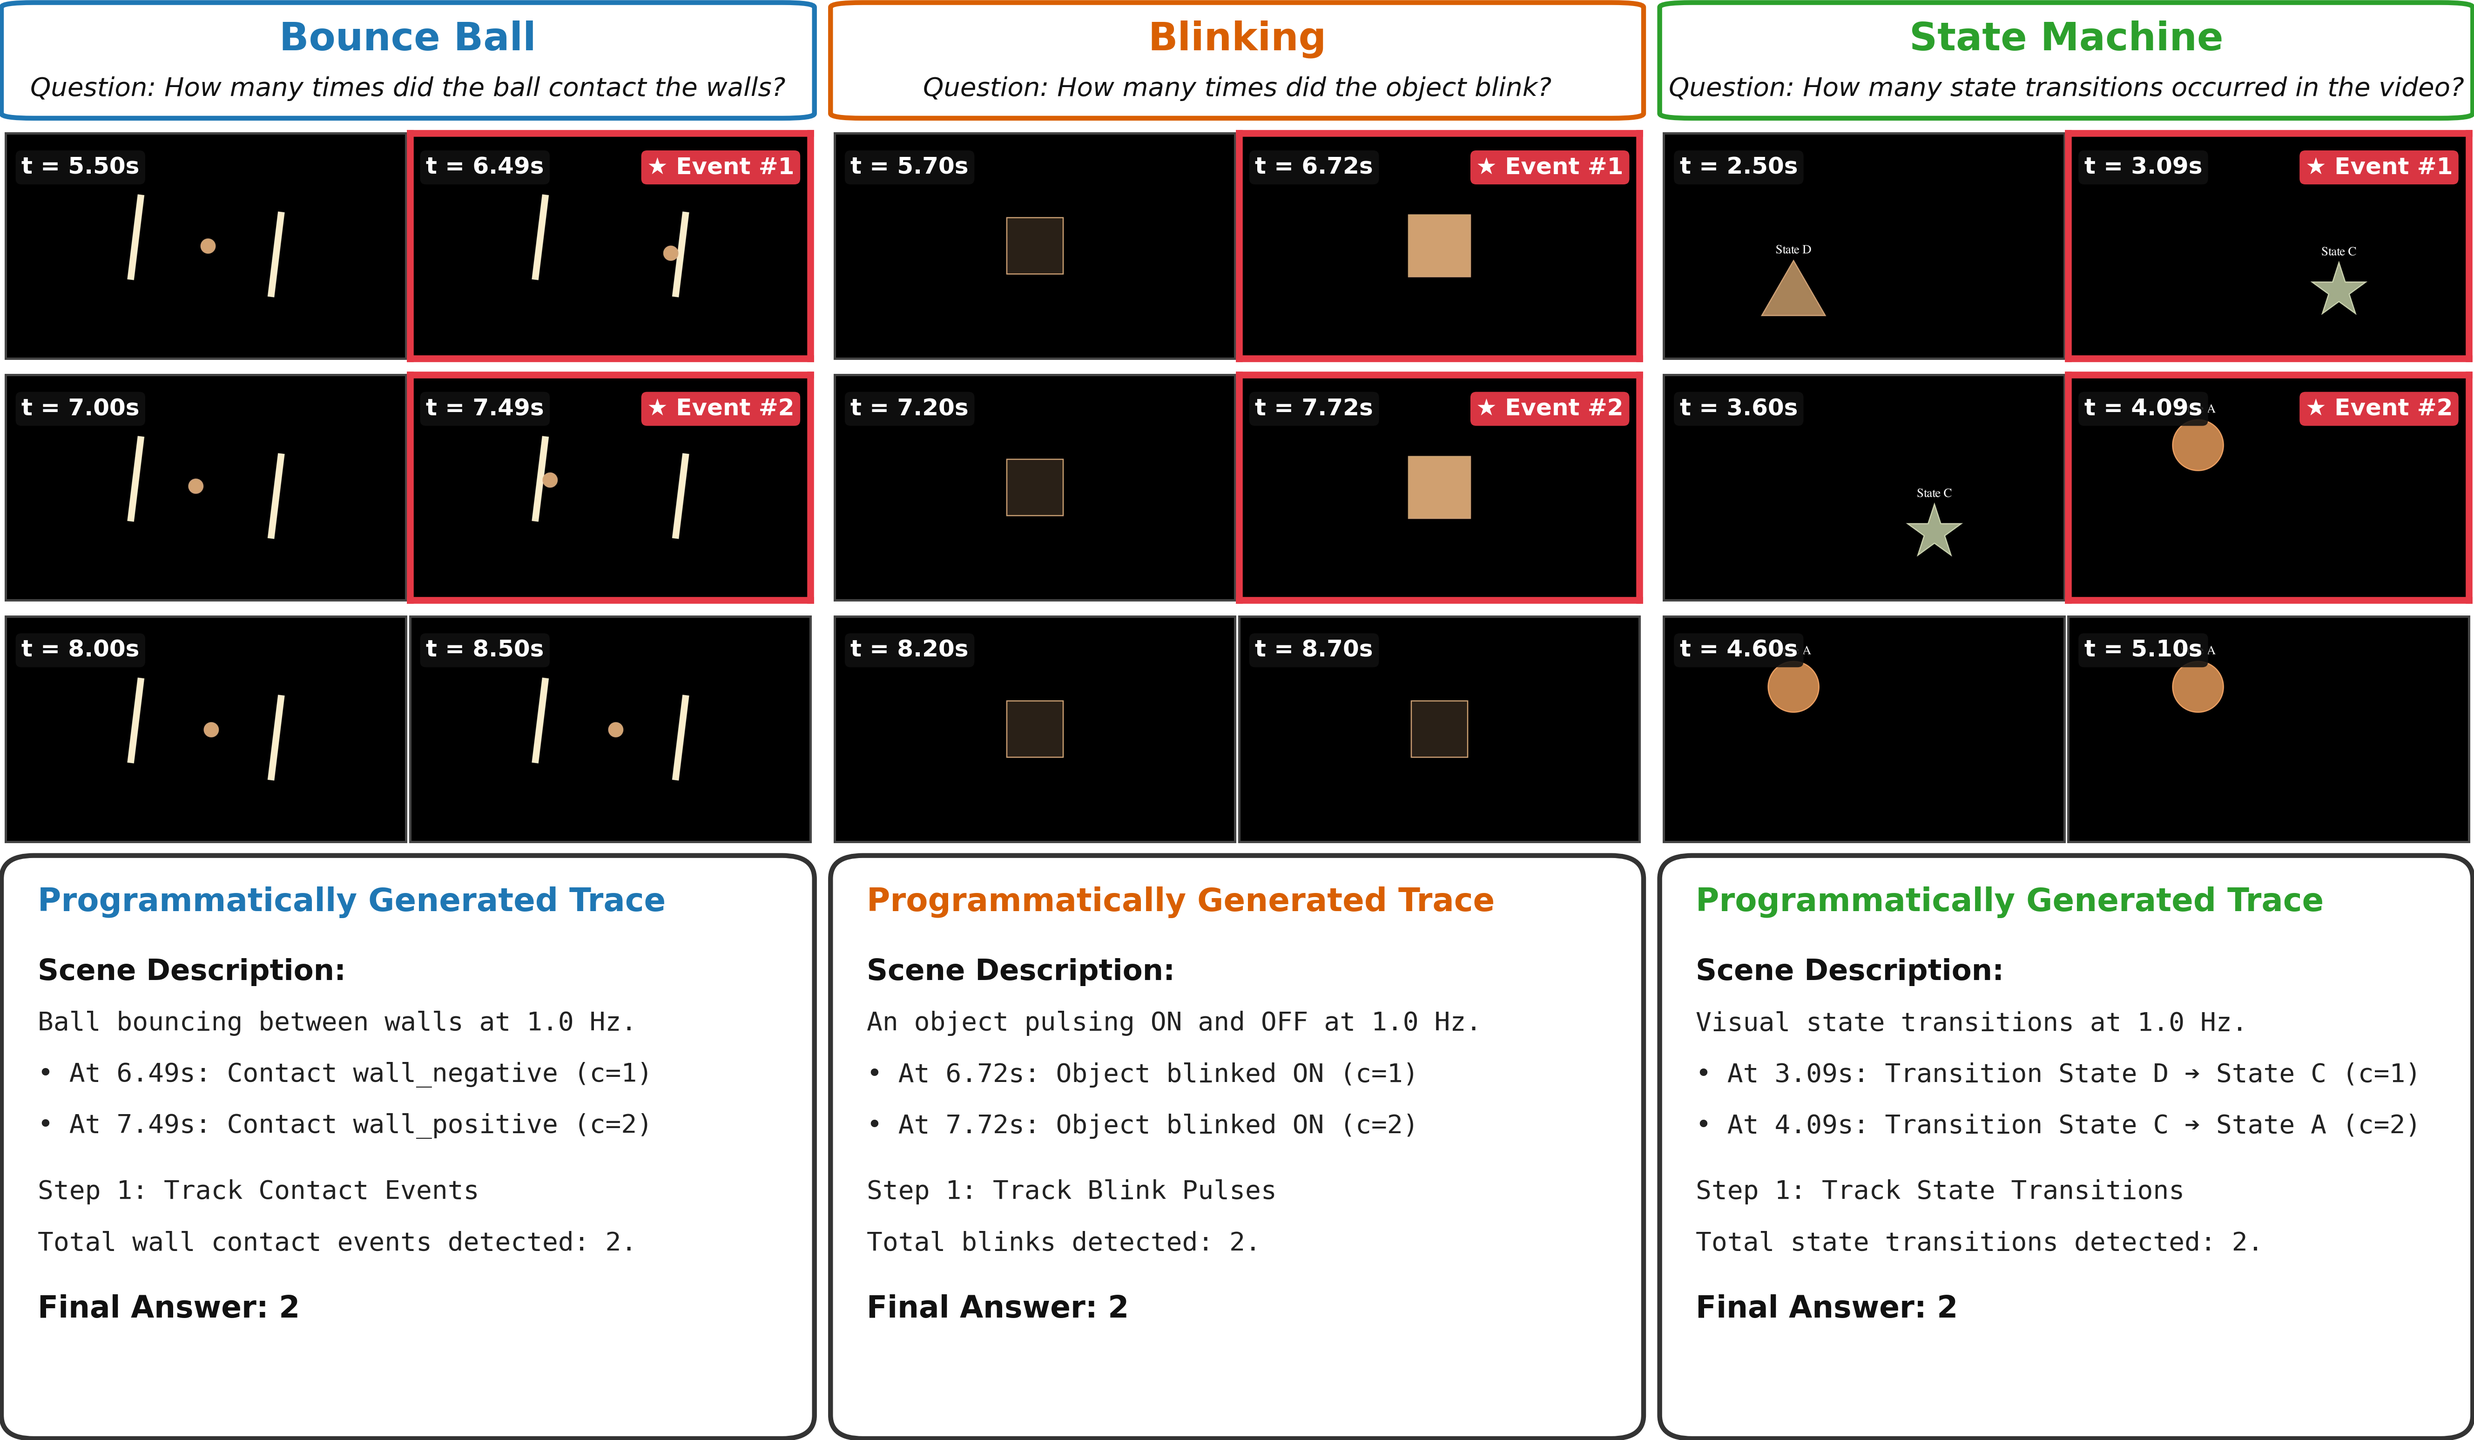
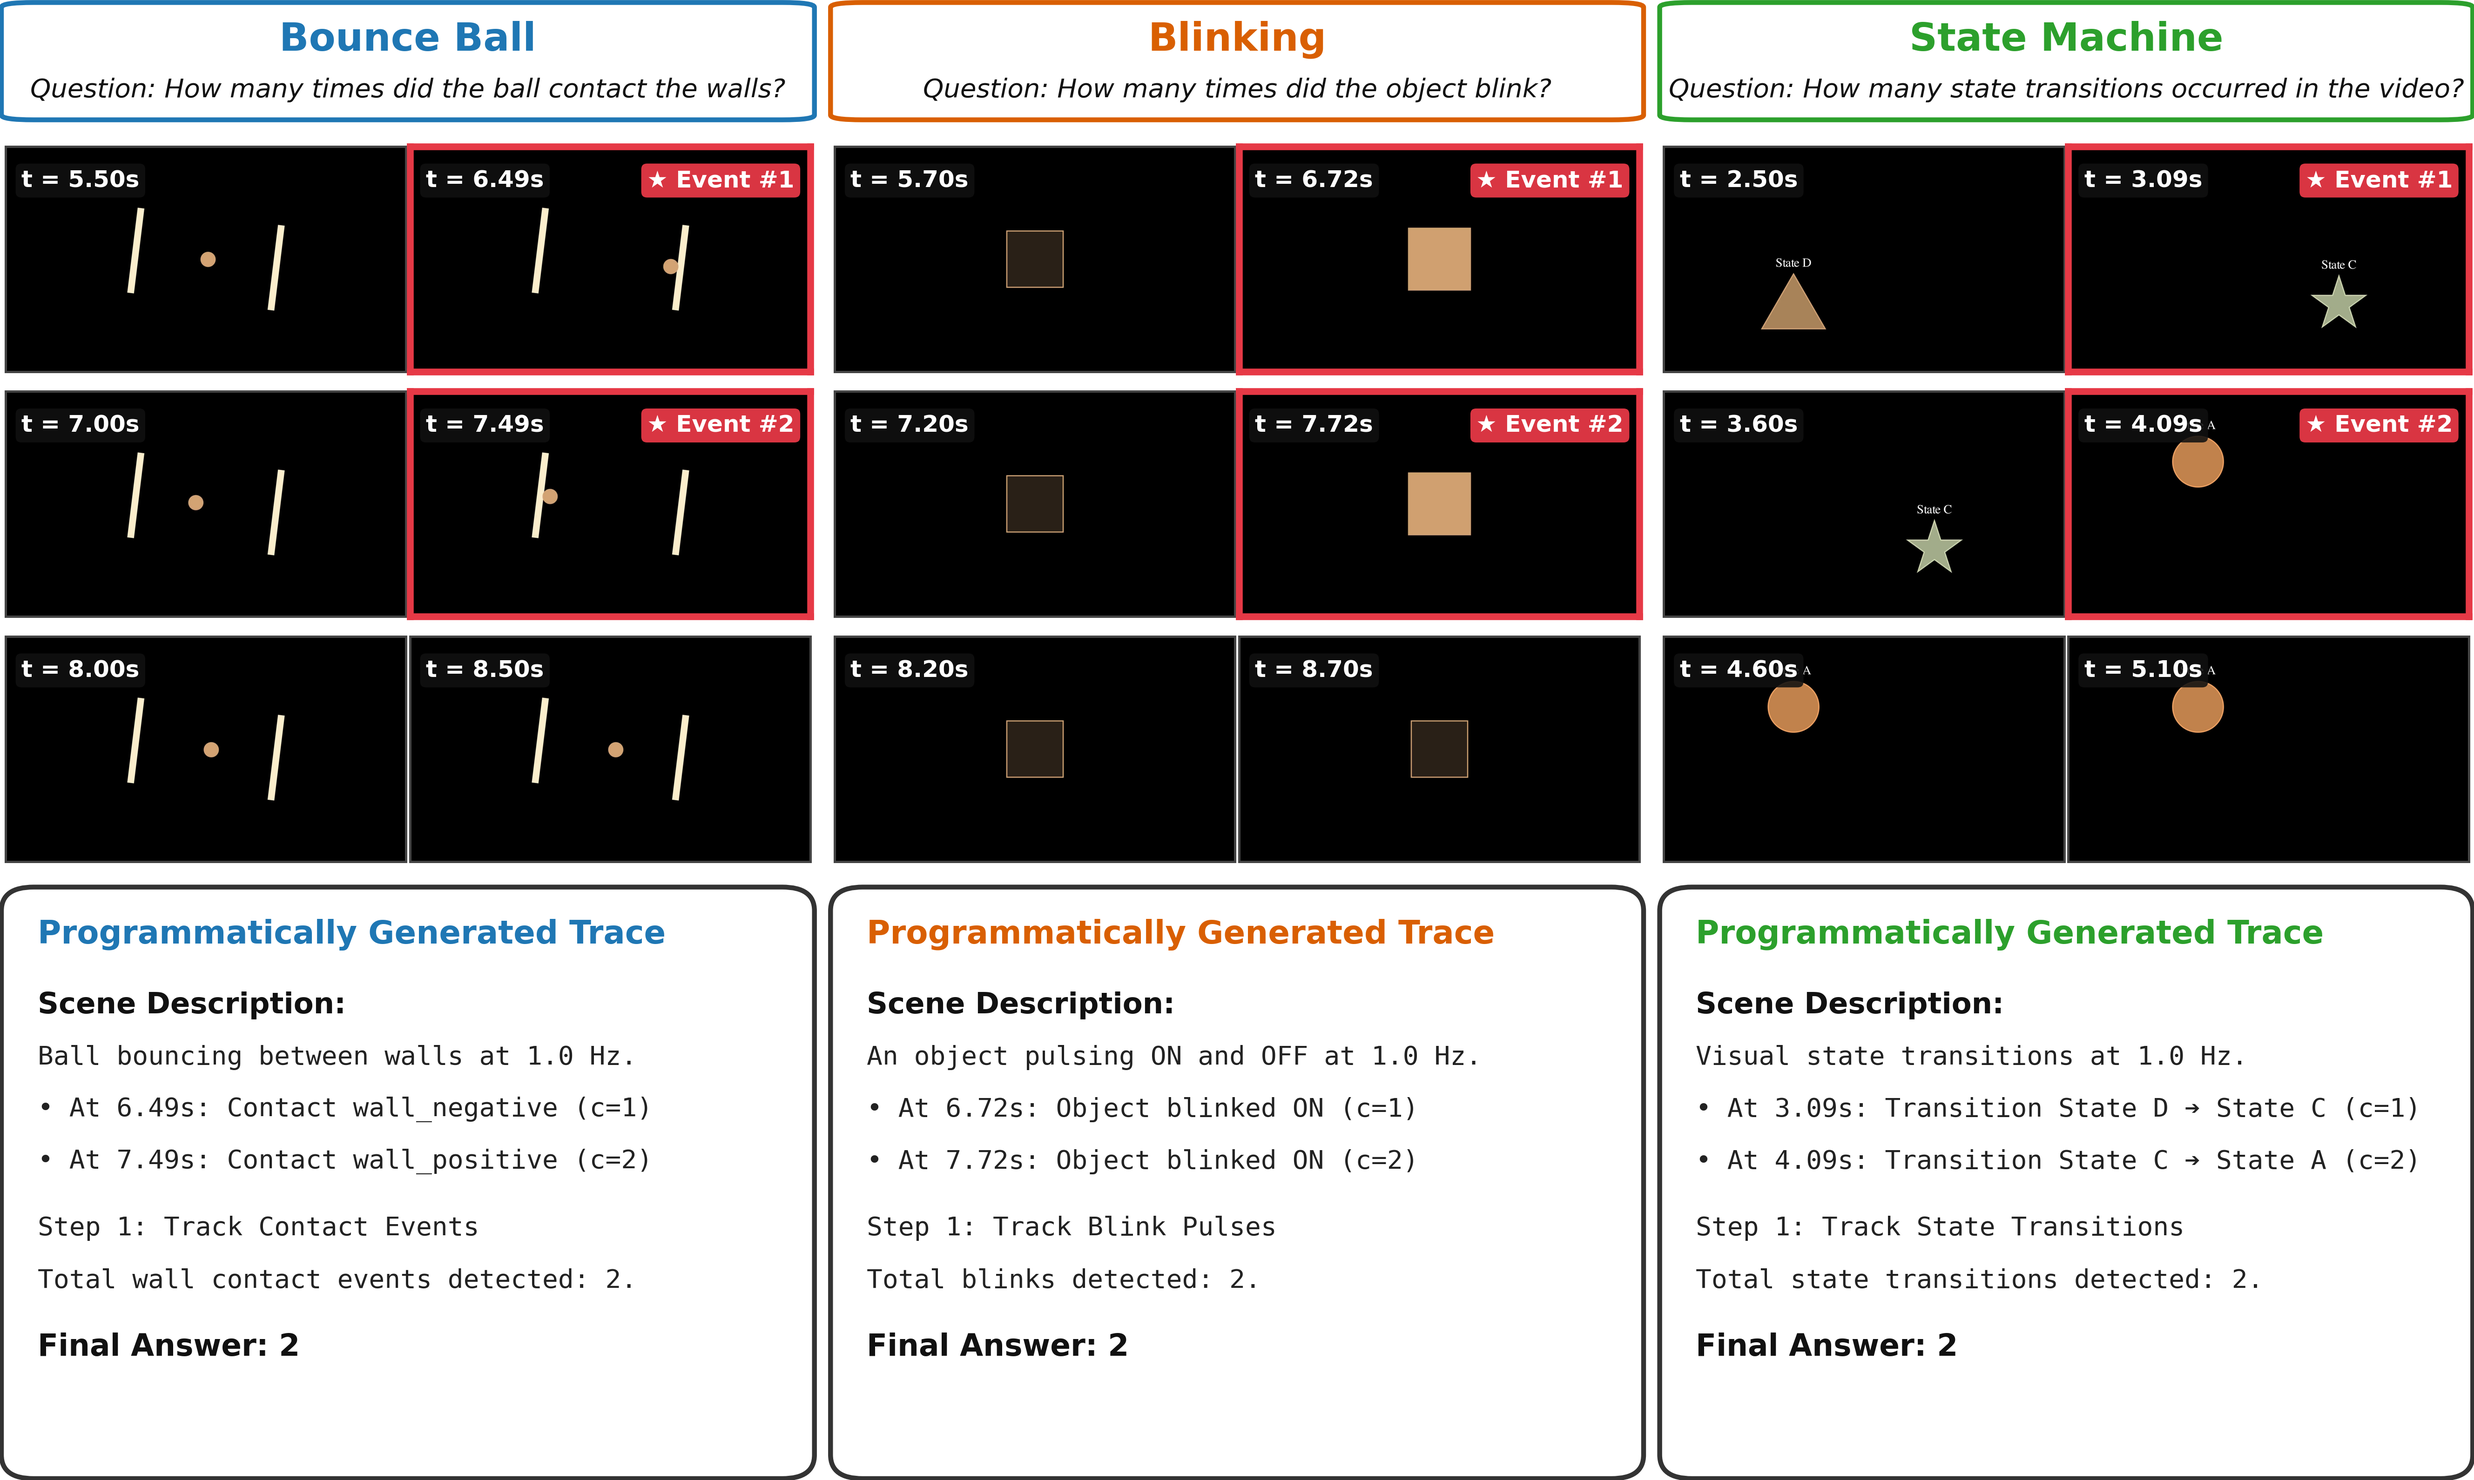
Slightly increase vertical hspace between header box, frame grid, and trace box

diff --git a/scripts/make_dataset_overview_figure.py b/scripts/make_dataset_overview_figure.py
@@ -98,14 +98,15 @@ def build_dataset_overview_figure(output_path: Path):
     plt.rcParams["figure.facecolor"] = "white"
     plt.rcParams["axes.facecolor"] = "white"
 
-    fig = plt.figure(figsize=(18, 10.5), dpi=300, facecolor="white")
+    fig = plt.figure(figsize=(18, 10.8), dpi=300, facecolor="white")
     col_gs = gridspec.GridSpec(1, 3, figure=fig, wspace=0.03, left=0.01, right=0.99, top=0.99, bottom=0.01)
 
     for c_idx, tinfo in enumerate(tasks_info):
+        # Slightly increased hspace (0.035) for subtle breathing room above and below frame grid
         col_sub = gridspec.GridSpecFromSubplotSpec(3, 1, subplot_spec=col_gs[c_idx],
-                                                   height_ratios=[0.85, 5.2, 4.2], hspace=0.015)
+                                                   height_ratios=[0.85, 5.2, 4.2], hspace=0.035)
 
-        # --- 1. Header Box (Larger Font Sizes) ---
+        # --- 1. Header Box ---
         ax_header = fig.add_subplot(col_sub[0])
         ax_header.axis("off")
 
@@ -158,7 +159,7 @@ def build_dataset_overview_figure(output_path: Path):
                           fontsize=12.0, fontweight="bold", color="white", ha="right",
                           bbox=dict(boxstyle="round,pad=0.25", facecolor="#e63946", edgecolor="none", alpha=0.95))
 
-        # --- 3. Trace Box (Larger Font Sizes) ---
+        # --- 3. Trace Box ---
         ax_trace = fig.add_subplot(col_sub[2])
         ax_trace.axis("off")
 
